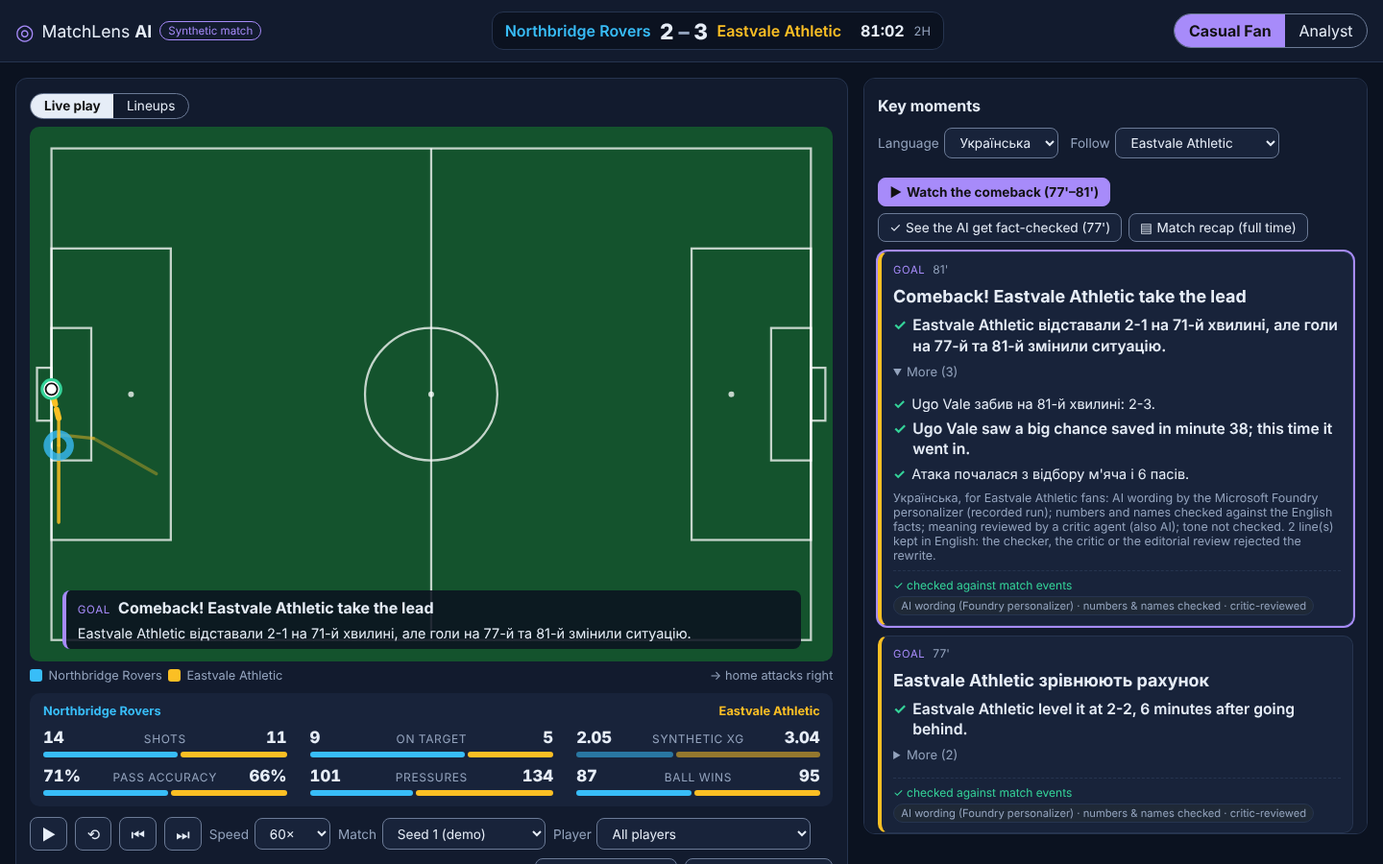
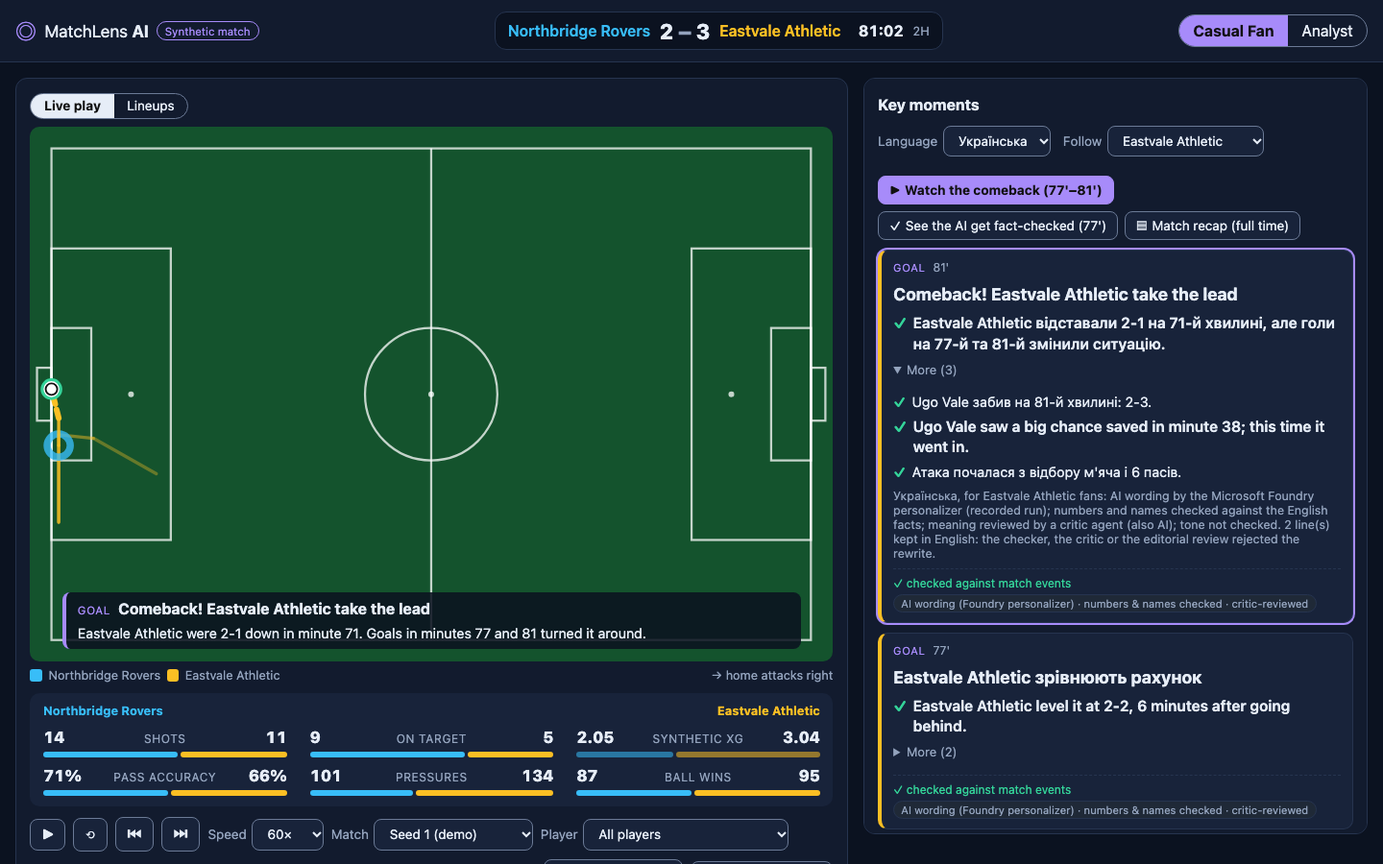
Review fixes before the video: unlabelled AI wording on the pitch, nested JSON, docs (#36)
- The lower-third on the pitch shows the card's template title and "why"
  fact only; with a language chosen it used to show the personalizer's
  rewrite with no AI label. The cards keep their language. New e2e test;
  fan-uk.png retaken (rendered with the old app.js in the same browser,
  only the lower-third's fact line differs).
- Live endpoint: JSON nested too deep (RecursionError on Python 3.11) is a
  400 bad_request with its telemetry record instead of an unhandled 500.
  New test forces the error on every Python version.
- DEPLOYMENT and the DAILY_LIMIT comment: a check makes up to 24
  generation requests (6 per attempt, 2 attempts, one resend when cut
  off), plus HTTP retries; the unsupported worst-case figure is removed.
- README and SUBMISSION: the local run command serves the recorded runs
  like the public build (serve --offline with the three trace options).
- io.py: isinstance(v, int | float), which ruff 0.12 asks (UP038).
- Wording: what runs in the browser, AI editorial reviews not checked by
  a human, definitions of lower-third, browser source, seed, xG and
  xPass, links to the official rules at challenge 4.1 and 4.1 (vi).
- TASKS: checkpoint with the verified results.

diff --git a/src/matchlens/web/app.js b/src/matchlens/web/app.js
@@ -639,11 +639,10 @@ function renderCards() {
   if (active && state.view === "live") {
     lt.hidden = false;
     $("lt-kind").textContent = KIND_LABEL[active.kind] || active.kind;
-    const loc = localized(active);
-    $("lt-title").textContent = loc ? loc.title : active.title;
-    // The caption says why the moment matters; evidence brackets are dropped on the graphic.
-    const facts = loc ? loc.facts : active.facts;
-    const summary = facts.find((f) => f.role === "why") || facts[0];
+    // Template wording only, never the personalizer's (it carries no AI label here); the cards
+    // keep their language. The caption says why the moment matters, without evidence brackets.
+    $("lt-title").textContent = active.title;
+    const summary = active.facts.find((f) => f.role === "why") || active.facts[0];
     $("lt-fact").textContent = summary ? summary.text.replace(EVIDENCE_RE, "") : "";
   } else {
     lt.hidden = true;

diff --git a/tests/test_e2e_browser.py b/tests/test_e2e_browser.py
@@ -975,6 +975,25 @@ def test_the_recorded_personalizer_run_is_live_on_the_page(page, bundle):
     assert "Впевненість" not in text and "відійшли назад" not in text  # editorial review
 
 
+def test_the_pitch_lower_third_shows_the_english_template_not_the_rewrite(page, bundle):
+    """The lower-third on the pitch carries no AI label, so it keeps the English casual card."""
+    p = bundle.get("personalized")
+    if not p:
+        pytest.skip("this deployment has no personalizer run")
+    t = 4862  # just after 81': the comeback card
+    card = [c for c in bundle["cards"]["casual"] if c["publish_clock_s"] <= t][-1]
+    i, why = next((i, f) for i, f in enumerate(card["facts"]) if f["role"] == "why")
+    lines = p["variants"]["uk|away"]["cards"][card["card_id"]]["lines"]
+    rewrite = next(ln for ln in lines if ln["index"] == i)
+    assert rewrite["status"] == "verified" and rewrite["text"] != why["text"]
+    _open(page, f"?t={t}&lang=uk&follow=away")
+    assert page.is_visible("#lower-third")
+    assert page.text_content("#lt-title") == card["title"]
+    assert page.text_content("#lt-fact") == re.sub(r"\s*\[evidence:[^\]]*\]", "", why["text"])
+    art = page.locator(f"#cards [data-card-id='{card['card_id']}']")
+    assert rewrite["text"] in art.text_content()  # the card keeps its checked rewrite
+
+
 # --- Player focus ------------------------------------------------------------------------------
 
 

diff --git a/tests/test_live.py b/tests/test_live.py
@@ -498,6 +498,25 @@ def test_telemetry_never_holds_the_key_the_client_address_or_request_text(match,
         assert "<script>" not in line and "say hi" not in line
 
 
+def test_json_nested_too_deep_is_a_bad_request_like_any_other(match, caplog, monkeypatch):
+    checker = _checker(match, Always())
+    deep = b"[" * 1000  # under the size cap
+    _, bad_level, bad_record, _ = _logged(caplog, checker, b"{not json")
+    real_loads = json.loads
+
+    def loads(s, *args, **kwargs):  # Python 3.11 raises this for `deep`; 3.13 does not
+        if s == deep:
+            raise RecursionError("maximum recursion depth exceeded while decoding a JSON array")
+        return real_loads(s, *args, **kwargs)
+
+    for forced in (False, True):
+        if forced:
+            monkeypatch.setattr(live.json, "loads", loads)
+        reply, level, record, _ = _logged(caplog, checker, deep)
+        assert reply["status"] == "bad_request" and record["http_status"] == 400
+        assert level == bad_level and {**record, "elapsed_ms": 0} == {**bad_record, "elapsed_ms": 0}
+
+
 def test_a_run_that_fails_half_way_logs_a_warning_with_what_it_spent(match, caplog):
     clock = FakeClock()
 

diff --git a/src/matchlens/live.py b/src/matchlens/live.py
@@ -69,7 +69,7 @@ LIVE_SCHEMA = "matchlens.live-check/v1"
 LIVE_PATH = "api/live-check"
 PER_CLIENT_LIMIT = 3
 PER_CLIENT_WINDOW_S = 600.0
-DAILY_LIMIT = 100  # card checks per UTC day; each is at most a dozen small model calls
+DAILY_LIMIT = 100  # card checks per UTC day; each makes up to 24 generation requests, plus retries
 DAILY_LIMIT_ENV = "MATCHLENS_LIVE_DAILY_LIMIT"
 DEADLINE_S = 30.0  # under the HTTP timeout of a serverless front end
 MAX_BODY_BYTES = 1024
@@ -387,7 +387,7 @@ def _respond(
         return 413, {"schema": LIVE_SCHEMA, "status": "too_large", "live": False}
     try:
         doc = json.loads(body)
-    except ValueError:
+    except (ValueError, RecursionError):  # RecursionError: nested too deep (Python 3.11)
         doc = None
     if not isinstance(doc, dict) or set(doc) != {"card_id"}:
         return 400, {"schema": LIVE_SCHEMA, "status": "bad_request", "live": False}

diff --git a/src/matchlens/io.py b/src/matchlens/io.py
@@ -68,7 +68,7 @@ def _parse_point(
     if value is None:
         return None
     if len(value) != 2 or not all(
-        isinstance(v, (int, float)) and not isinstance(v, bool) for v in value
+        isinstance(v, int | float) and not isinstance(v, bool) for v in value
     ):
         errors.append(f"{where}: '{name}' must be [x, y] numbers")
         return None

diff --git a/README.md b/README.md
@@ -23,7 +23,7 @@ Built for the Microsoft × Premier League *Inside the Game* Developer Hackathon.
 1. **A card for every key moment, never early.** It appears once its last evidence event exists and leads with what changed: an equaliser, a comeback, what a missed chance would have meant.
 2. **Every line can be checked.** In Analyst mode each fact opens its events and metrics on the pitch, and the AI's claims show the validator's verdict in plain words.
 3. **One set of facts, many audiences.** A fan reads the match at a glance: comparison bars, both lineups and one line per moment, in their language and from their club's side, with the AI wording labelled and checked for numbers and names. An analyst gets every line with its evidence.
-4. **Ready for air.** The moment plays as a lower-third in a browser source (OBS, vMix), or goes to a graphics system as timed overlay JSON.
+4. **Ready for air.** The moment plays as a lower-third (the caption graphic across the bottom of the picture) in a browser source (a web page that streaming software such as OBS or vMix lays over the video), or goes to a graphics system as timed overlay JSON.
 5. **A recap at the final whistle.** Copy it as text, or download it with the sources of every line.
 
 ## Try it in 60 seconds
@@ -60,10 +60,10 @@ On the public pages the three agents replay recorded live runs, and every build 
 
 ### The five-stage pipeline
 
-| Stage (challenge §4.1) | What MatchLens does | Code |
+| Stage ([challenge §4.1](https://github.com/microsoft/insidethegamehackathon/blob/main/OFFICIAL%20RULES.md)) | What MatchLens does | Code |
 |---|---|---|
-| **Ingest** | A deterministic generator writes a full 90-minute match: passes, shots, tackles, interceptions, recoveries, clearances, pressure events, possession chains and match metadata. A validator enforces the invariants: unique IDs, nondecreasing clock, score only on goals, possession ownership, ball continuity within 1 m. The same seed gives the same bytes. The match can also arrive as a feed: `matchlens feed` writes it one event at a time, and `matchlens stream` validates each event on arrival and publishes each card as its last evidence event arrives, without looking ahead. | `generator.py`, `validate.py`, `stream.py`, [DATA_MODEL](docs/DATA_MODEL.md) |
-| **Interpret** | Metrics with stable IDs, full-match and 15-minute windows (passes, completion, shots, on target, goals, pressures, turnovers, possessions, synthetic xG), each listing its source event IDs. Key moments: every goal, every missed big chance, full time. | `metrics.py`, `moments.py` |
+| **Ingest** | A deterministic generator writes a full 90-minute match: passes, shots, tackles, interceptions, recoveries, clearances, pressure events, possession chains and match metadata. A validator enforces the invariants: unique IDs, nondecreasing clock, score only on goals, possession ownership, ball continuity within 1 m. The same seed (the number that starts the generator's random draws) gives the same bytes. The match can also arrive as a feed: `matchlens feed` writes it one event at a time, and `matchlens stream` validates each event on arrival and publishes each card as its last evidence event arrives, without looking ahead. | `generator.py`, `validate.py`, `stream.py`, [DATA_MODEL](docs/DATA_MODEL.md) |
+| **Interpret** | Metrics with stable IDs, full-match and 15-minute windows (passes, completion, shots, on target, goals, pressures, turnovers, possessions, synthetic xG), each listing its source event IDs; xG (expected goals) is a shot's estimated chance of scoring, here from its distance and angle. Key moments: every goal, every missed big chance, full time. | `metrics.py`, `moments.py` |
 | **Explain** | Match-story lines say why a moment matters (opener, equaliser, comeback, back in front, redemption, what a missed chance would have meant, how the match was won). Each line cites events and is re-rendered from those events alone before it is published. | `story.py`, `cards.py` |
 | **Render** | A card is published at its last evidence event, never earlier. Timed, machine-readable overlay cues (`matchlens.overlays/v1`, both modes); a transparent broadcast lower-third that plays them; a match recap at full time (`matchlens.recap/v1`) to copy as text or download with its sources; a replay UI with pitch view, timeline and scoreboard. | `overlays.py`, `recap.py`, `web/` |
 | **Personalize** | Casual and Analyst are different experiences. Casual reads at a glance: comparison bars, both lineups with a player to follow, one line per moment. Analyst shows event chains, metric chips, an evidence inspector and the claim check. Fans also pick a language (en/de/uk) and a club, rewritten by the personalizer agent, checked line by line and reviewed by the critic agent. | `narrative.py`, `personalize.py`, `web/app.js` |
@@ -80,8 +80,8 @@ MatchLens is entered for **Best Enterprise Solution**. This is the deployment ca
 | A rewrite changes the meaning | A critic agent reviews each line that passed the checker; a missing verdict is a rejection; a line still rejected shows the English fact. The critic is a model and misses errors ([measured](#the-critic-measured)). | `critic.py` |
 | Look-ahead and spoilers | A card is published at its last evidence event. The claim agent's tools see the match only up to that event. The recap appears only at full time. Fed one event at a time, every match gives the same cards at the same events: checked on 31 seeds in the tests and on every match at every build. | `cards.py`, `agent.py`, `recap.py`, `stream.py` |
 | A broken feed | The stream processor checks each event on arrival with the validator's rules. The first invalid event stops publishing for the rest of the stream. | `validate.py`, `stream.py` |
-| AI output taken for fact | AI wording is labelled wherever it appears. The on-air graphic shows template facts only. Synthetic xG and xPass are labelled as heuristics. | `web/` |
-| No audit trail | Live runs are recorded with response IDs and token use, and every build re-checks them. Editorial rejections are kept with reasons in a versioned file that the build applies to the exact text. | `docs/evidence/` |
+| AI output taken for fact | AI wording is labelled wherever it appears. The on-air graphic shows template facts only. Synthetic xG and xPass (expected pass completion: a pass's estimated chance of arriving) are labelled as heuristics. | `web/` |
+| No audit trail | Live runs are recorded with response IDs and token use, and every build re-checks them. Editorial rejections, from AI reviews that no human has checked, are kept with reasons in a versioned file that the build applies to the exact text. | `docs/evidence/` |
 | Runaway cost from a public page | The live endpoint takes a card ID only. A shared daily cap is reserved in Azure Table Storage before any model call; if the store fails, no call is made. | `live.py`, `quota.py` |
 | Exposed secrets and stored data | The browser never holds a key: live checks run in an Azure Function. Every Foundry call is made with `store: false`. The data is synthetic, with no personal data. | `live.py`, `api/` |
 | Silent breakage | Playwright smoke tests run after every deploy and daily on both hosts through the end of judging. They never press the paid live-check button, so the live call is checked by hand. | `.github/workflows/` |
@@ -184,7 +184,7 @@ MatchLens is entered for the Grand Prize and for Best Enterprise Solution; the o
 
 | Category | How MatchLens fits |
 |---|---|
-| **Grand Prize** (explainable match intelligence, narratives, personalized experiences for fans, analysts and broadcasters) | All five pipeline stages, both audiences, broadcast output, a full-time recap, multi-language storytelling (challenge §4.1 vi) |
+| **Grand Prize** (explainable match intelligence, narratives, personalized experiences for fans, analysts and broadcasters) | All five pipeline stages, both audiences, broadcast output, a full-time recap, multi-language storytelling ([challenge §4.1 (vi)](https://github.com/microsoft/insidethegamehackathon/blob/main/OFFICIAL%20RULES.md)) |
 | **Best Enterprise Solution** (entered) | Controls a broadcaster or league would need before a model writes on screen: template-rendered facts, validator- and critic-gated AI output, labelled AI wording, an audit trail of recorded runs, fail-closed spend control, and a pilot plan with stated gaps ([From demo to production](#from-demo-to-production)) |
 | Best Use of Microsoft Foundry | Three Foundry agents (tools, structured outputs), recorded and live runs with response IDs, validator-gated publishing |
 | Best Multi-Agent System | A claim agent, a personalizer and a critic with distinct roles, shared verified state, validator and critic handoffs, retries and labelled fallbacks |
@@ -208,10 +208,15 @@ MatchLens is entered for the Grand Prize and for Best Enterprise Solution; the o
 ```bash
 python -m venv .venv && . .venv/bin/activate
 pip install -e .
-python -m matchlens serve            # seed 1 (2-3) plus five extra matches, http://127.0.0.1:8000/
+# What the public build serves: seed 1 (2-3) with the recorded Foundry runs, plus five extra matches
+python -m matchlens serve --offline \
+  --agent-trace docs/evidence/agent-trace-2026-10-24.json \
+  --personalize-trace docs/evidence/personalize-trace-v2-2026-10-24.json \
+  --editorial-review docs/evidence/personalize-review-v3-2026-10-25.json
+# then open http://127.0.0.1:8000/
 ```
 
-It runs fully offline without Azure credentials, with deterministic template wording labelled as such. Options: `--seed N`, `--file match.jsonl`, `--port`, `--offline`, `--single-match`, `--agent-trace`, `--personalize-trace`, `--editorial-review`, `--live-api`. `python -m matchlens export-site --out site/` writes the same UI as a static folder.
+Run it from the repository root. With `--offline` no Azure call is made: the agents' recorded runs are replayed and re-checked. Plain `python -m matchlens serve` loads no recorded run, so it shows only template wording, labelled as such, with no Language and Follow choice and no recorded claim check; without `--offline` it also uses Azure credentials when they are set. Options: `--seed N`, `--file match.jsonl`, `--port`, `--offline`, `--single-match`, `--agent-trace`, `--personalize-trace`, `--editorial-review`, `--live-api`. `python -m matchlens export-site --out site/` with the same options writes the same UI as a static folder.
 
 ```bash
 pip install -e ".[dev]"

diff --git a/docs/TASKS.md b/docs/TASKS.md
@@ -10,7 +10,21 @@ Update this file after verified work. A task is done only when the acceptance ch
 - [ ] M5 (Oct 26; **partial**: public demo live on GitHub Pages at https://vbabenko97.github.io/matchlens-ai/, smoke test green; accessibility code pass done (screen-reader check pending); rehearsal and video remaining): Public deployment, accessibility check, real demo rehearsal, README, short video recorded and published.
 - [ ] M6 (Oct 27): Final originality/security/requirements audit, public repository, demo link and video link; complete actual Innovation Studio submission before deadline.
 
-## Latest checkpoint (2026-10-25): casual redesign — comparison bars, lineups, short cards
+## Latest checkpoint (2026-10-26): review fixes before the video
+- **Goal:** fix what a review found before the video is recorded from the deployed version; no new feature.
+- **Lower-third on the pitch.** With a language and club chosen, it showed the personalizer's rewrite with no AI label (at `?t=4862&lang=uk&follow=away`, a Ukrainian line), although the README says AI wording is labelled wherever it appears. It now always shows the card's template title and first "why" fact, as `broadcast.html` does; the cards keep their language. A new e2e test checks the English title and "why" line at that URL; it fails on the old `app.js` on both local targets.
+- **`fan-uk.png` retaken** from the local static build (the Pages workflow's flags, written outside the repository), 1440×900, `?t=4862&lang=uk&follow=away`, Live play, **More (3)** open on the 81' card, Playwright's bundled Chromium (headless shell 1248).
+  - Rendered in the same browser with the old `app.js`, only the lower-third's fact line differs (x 194–708, y 653–667).
+  - The committed old image came from a browser with different font rendering, so a pixel diff against it changes text across the whole page; Google Chrome and Playwright's full Chromium differ from it even more. The content is otherwise the same.
+- **Local run.** README "Run it locally" and SUBMISSION now give `serve --offline` with the three trace options of the Pages build. That command shows the Language and Follow choice and the recorded 77' claim check ("Pressures applied: 131" rejected); without the trace options neither appears (checked in a browser on both).
+- **Nested JSON on the live endpoint.** On Python 3.11 a body of 1,000 `[` (under the 1,024-byte cap) raised `RecursionError`, which escaped the handler: HTTP 500 and no telemetry line. `RecursionError` now takes the bad-request path: 400 `bad_request` and the same telemetry record as other bad requests. The new test in `tests/test_live.py` forces the error on every Python version; before the fix it failed on 3.11.14 and 3.13.5, after it passes on both.
+- **Model-call bound.** DEPLOYMENT and the `DAILY_LIMIT` comment said 12 model calls per check. The code allows up to 24 generation requests per check (6 per attempt, 2 attempts, each resent once when its answer is cut off), and HTTP 429 and network retries add HTTP requests on top. The "few dollars a day" worst case is removed, because the stated figures do not support it.
+- **Lint.** ruff 0.12.0 reported UP038 at `io.py:71`; the check is now `isinstance(v, int | float)`. The ruff that `pip install -e ".[dev]"` installs (0.17.2) passed before and after.
+- **Wording.** SUBMISSION: the replay runs in the browser and the live check calls Azure; the German and Ukrainian lines come from a recorded personalizer run, and the editorial reviews were done by AI, not checked by a human. README: the same about the reviews in the controls table; short definitions of lower-third, browser source, seed, xG and xPass; "challenge §4.1" and "§4.1 (vi)" link the official rules (numbering checked: 4.1 Hackathon Challenge, item (vi) Multi-language storytelling).
+- **Verified:** `python -m pytest -q` (e2e on local Chromium) gives 713 passed, 3 skipped (the Azure Functions adapter test without `azure-functions`, and the no-personalizer test on both local targets); `ruff check .` and `ruff format --check .` pass with ruff 0.12.0 and 0.17.2. No Azure or Foundry call was made.
+- **Next (operator approval):** `git push -u origin fix/pre-video-review`, then a PR, merge after green CI, and both deploy workflows; the public pages show the old lower-third until then. Record the video from that deployed version.
+
+## Checkpoint (2026-10-25): casual redesign — comparison bars, lineups, short cards
 - **Why:** the operator found the casual view text-heavy (a reference: a broadcast match centre with bars and lineups). UX and the video are 20% of the score. Approved after a prototype with screenshots on real data.
 - **Casual Fan** (Analyst keeps every line and the tiles):
   - **Comparison bars** instead of the four tiles: shots, on target, synthetic xG (drawn fainter, labelled), pass accuracy, pressures, ball wins.

diff --git a/docs/SUBMISSION.md b/docs/SUBMISSION.md
@@ -21,18 +21,18 @@ Facts are rendered from structured data, never written by a model. Three Microso
 - **GitHub Actions:** CI on Python 3.11 and 3.13, deploys to both hosts, and Playwright smoke tests after every deploy and daily through 10 November.
 
 ## Testing instructions
-No account, sign-in or API key is needed. Everything runs in the browser. The data is synthetic and the teams and players are fictional.
+No account, sign-in or API key is needed. The replay runs in the browser; the live check in step 3 calls Microsoft Foundry through an Azure Function. The data is synthetic and the teams and players are fictional.
 
 1. Open <https://wonderful-hill-04967dd0f.5.azurestaticapps.net/> and press **▶ Watch the comeback (77'–81')**. Insight cards appear as the moments happen; each leads with why it matters.
 2. Switch to **Analyst** and press **See the AI get fact-checked (77')**. The claim check opens with a plain summary of a recorded Foundry agent run: the checker rejected one claim because its evidence did not fit the statistic, and the agent's retry was verified. The claim-by-claim list and the response IDs are below it. Click any event or metric ID on a card to inspect it and highlight it on the pitch.
 3. On an analyst card, press **Check this card live with Microsoft Foundry** to run the agent live. It takes about 10 s. A shared daily cap protects the demo: if it is used up, the page says so and keeps the recorded run.
-4. Switch back to **Casual Fan**, set **Language** to Deutsch or Українська and **Follow** to a club. Each card leads with one line; **More** opens the rest and says who wrote the wording. Lines that failed the checker, the critic agent or an editorial review show the English fact, and each card says so.
+4. Switch back to **Casual Fan**, set **Language** to Deutsch or Українська and **Follow** to a club. The German and Ukrainian lines come from a recorded personalizer run. Each card leads with one line; **More** opens the rest and says who wrote the wording. Lines that failed the checker, the critic agent or an editorial review show the English fact, and each card says so. The editorial reviews were done by AI and not checked by a human.
 5. In **Analyst**, the **Passing** table compares the teams' pass quality so far: facts (accuracy, length, progressive and pressed passes, tempo) next to a clearly labelled synthetic xPass heuristic. Click a value to see those passes on the pitch.
 6. Switch the pitch to **Lineups** and select a player (or use the **Player** picker) to follow one player: their running numbers (facts, with synthetic xG labelled as a heuristic), their last touch on the pitch, and a badge on every card that cites their events.
 7. Press **▤ Match recap (full time)**: the full-time story and the scorers, built only from checked card lines. **Copy recap** copies plain text; **Recap JSON** keeps every line with its event and metric IDs. With a language and club set, the recap follows them.
 8. Press **▣ On-air graphic** for the broadcast lower-third, or **⬇ Overlay JSON** for the timed cues. The **Match** picker offers five more matches the demo was not tuned for.
 
-To run locally (Python 3.11+, no runtime dependencies): `pip install -e . && python -m matchlens serve`, then open <http://127.0.0.1:8000/>. To process a match as a feed, one event at a time: `python -m matchlens feed --seed 1 --speed 60 | python -m matchlens stream -`.
+To run locally (Python 3.11+, no runtime dependencies) with the same recorded runs as the public demo and no Azure call, from the repository root: `pip install -e . && python -m matchlens serve --offline --agent-trace docs/evidence/agent-trace-2026-10-24.json --personalize-trace docs/evidence/personalize-trace-v2-2026-10-24.json --editorial-review docs/evidence/personalize-review-v3-2026-10-25.json`, then open <http://127.0.0.1:8000/>. To process a match as a feed, one event at a time: `python -m matchlens feed --seed 1 --speed 60 | python -m matchlens stream -`.
 
 ## Category
 Enter **Best Enterprise Solution** (with the Grand Prize). Decided on 2026-10-25: the description asks for "a clear path to enterprise adoption, balancing innovation with the reliability, transparency, and controls required for use in production", and that is MatchLens's case. The README's [From demo to production](../README.md#from-demo-to-production) section is written for it: the controls already in place, the Azure deployment, a pilot plan and the gaps before production. If the form takes a second category, Best Use of Microsoft Foundry is the next fit.

diff --git a/docs/DEPLOYMENT.md b/docs/DEPLOYMENT.md
@@ -133,7 +133,7 @@ Whenever a check is not made or does not finish, the reply gives a reason (`not_
 What the Azure-side settings do and do not do:
 - **Budget:** an alert only. Azure budgets do not stop spending, and cost data arrives with a delay ([Microsoft Learn: budgets](https://learn.microsoft.com/en-us/azure/cost-management-billing/costs/tutorial-acm-create-budgets)).
 - **TPM limit:** caps the request rate, not the total.
-- **The daily count (4) is what bounds spend.** One check is at most 12 model calls. The recorded run averaged ≈ 10K input / 0.5K output tokens per card. So 100 checks a day is about 1M input tokens, under $1/day at `gpt-4.1-mini` list prices (check current pricing); a runaway worst case is a few dollars a day.
+- **The daily count (4) is what bounds spend.** One check makes at most 24 generation requests: up to 6 per attempt, 2 attempts, and each request resent once when its answer is cut off. HTTP 429 and network retries can add more HTTP requests on top of these. The recorded run averaged ≈ 10K input / 0.5K output tokens per card. So 100 checks a day is about 1M input tokens, under $1/day at `gpt-4.1-mini` list prices (check current pricing). A check that uses every request costs more than this average; that worst case has not been measured.
 
 Operator steps:
 1. **[operator]** Create the **Free** Static Web App (Option A steps 1–2 above) and add `AZURE_STATIC_WEB_APPS_API_TOKEN`.
